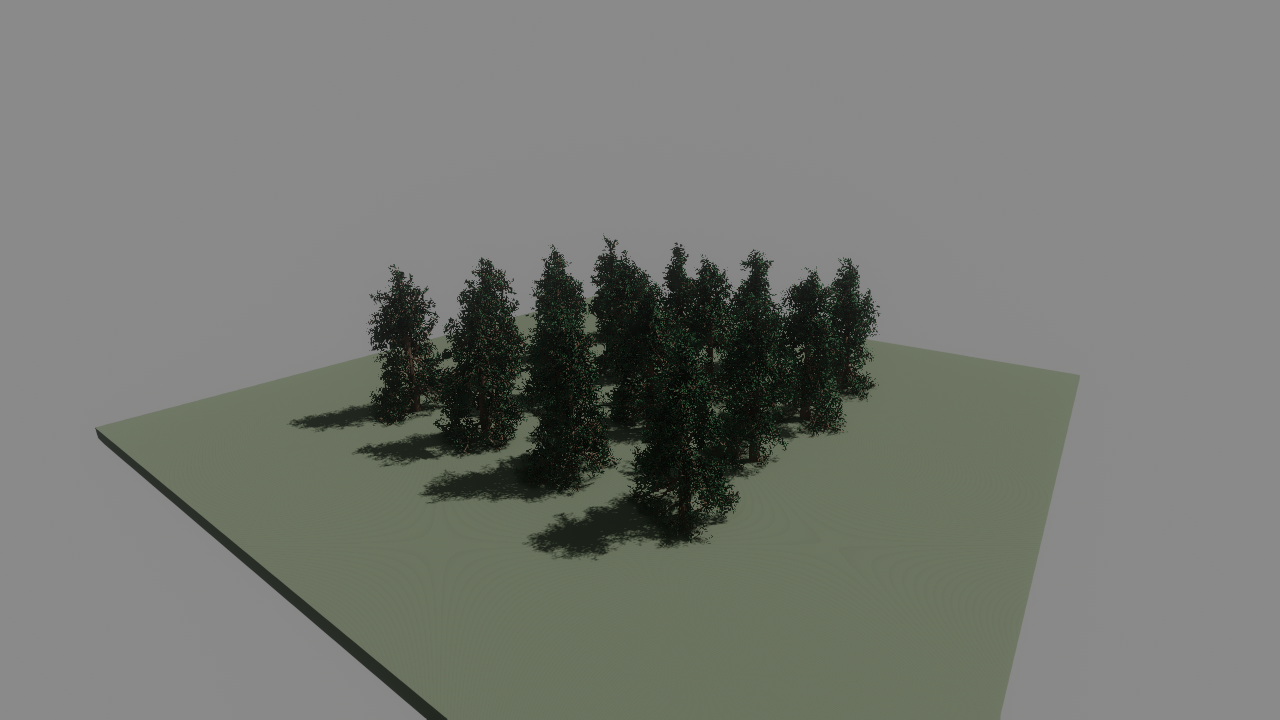
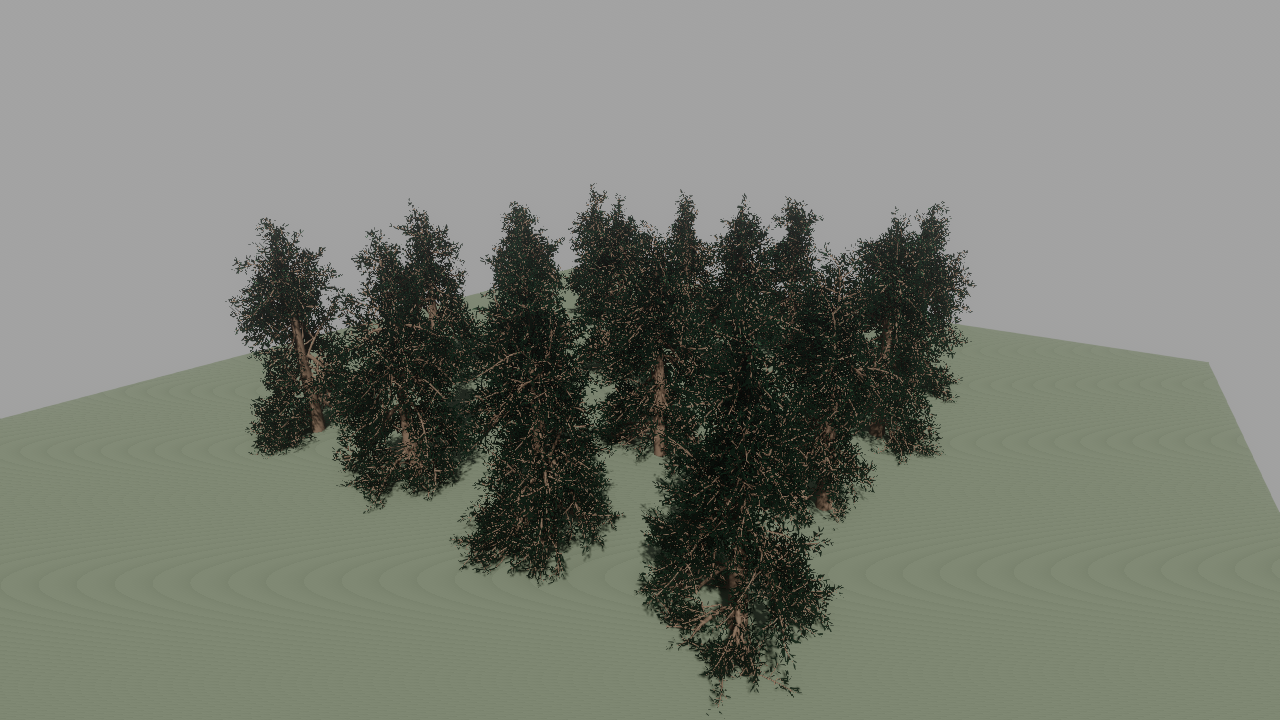
Move Windy Tree preview closer and reverse sunlight

diff --git a/EvoEngine_Packages/EcoSysLab/src/EcoSysLabLayerDemo.cpp b/EvoEngine_Packages/EcoSysLab/src/EcoSysLabLayerDemo.cpp
@@ -51,7 +51,7 @@ struct WindyTreeDemoSettings {
   glm::vec3 ground_size{12.0f, 0.2f, 12.0f};
   glm::vec3 camera_position{0.0f, 5.0f, 14.0f};
   glm::vec3 camera_target{0.0f, 2.8f, 0.0f};
-  glm::vec3 sun_direction{0.35f, -0.8f, -0.48f};
+  glm::vec3 sun_direction{0.45f, -0.8f, 0.6f};
   float sun_brightness = 20.0f;
   float ambient_brightness = 4.0f;
   glm::vec3 ambient_color{0.65f, 0.72f, 0.8f};
